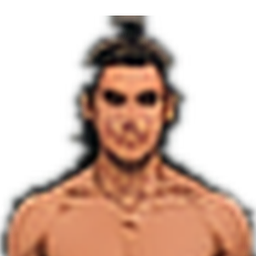
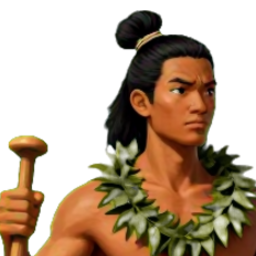
Polinesio novato con ilustración nueva (0.73.3) (#78)
* Polinesio novato: ilustración nueva generada con Open Generative AI (pendiente de aprobación)

Claude-Session: https://claude.ai/code/session_01YU6HPJ7VhHwR3fBeBBToEp

* Polinesio novato con ilustración nueva generada con Open Generative AI (0.73.3)

Claude-Session: https://claude.ai/code/session_01YU6HPJ7VhHwR3fBeBBToEp

---------

diff --git a/src/version.js b/src/version.js
@@ -1,2 +1,2 @@
 // Versión de la app: la misma que la caché del service worker (sw.js). Súbela al publicar cambios.
-export const VERSION = '0.73.2';
+export const VERSION = '0.73.3';

diff --git a/CHANGELOG.md b/CHANGELOG.md
@@ -2,6 +2,13 @@
 
 Lo que cambia en cada versión de Rower. La versión de la app vive en `src/version.js`; esta lista empieza siempre por esa versión (lo comprueba `pruebas/version.test.mjs`).
 
+## 0.73.3 · 2026-11-20
+
+El polinesio novato, con ilustración nueva.
+
+- El polinesio de nivel 1 (Novato) estrena ilustración semirrealista pintada, en la misma línea que el vikingo y el pirata: moño atado con cordel, lei de hojas de ti, malo de tapa y remo de pala en forma de hoja. Sustituye al recorte borroso de la lámina original.
+- Generada con Open Generative AI en modo local (stable-diffusion.cpp con Z-Image Turbo) e importada con `tools/ingest-character.mjs`; el resto de rangos del polinesio no cambia.
+
 ## 0.73.2 · 2026-11-11
 
 La bandera de popa, bien puesta.
